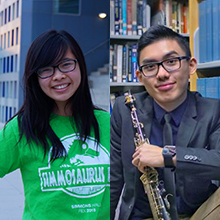
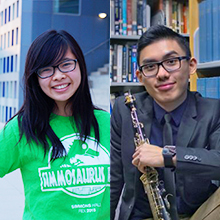
I forgot John, my bad

diff --git a/js/people.js b/js/people.js
@@ -215,7 +215,7 @@ var people = {
     year: "2018",
     room: "340A",
     email: "rgulland@mit.edu",
-    photo: "rgulland.jpg",
+    photo: "ryan-john.jpg",
   },
 
   "kianna" : {
